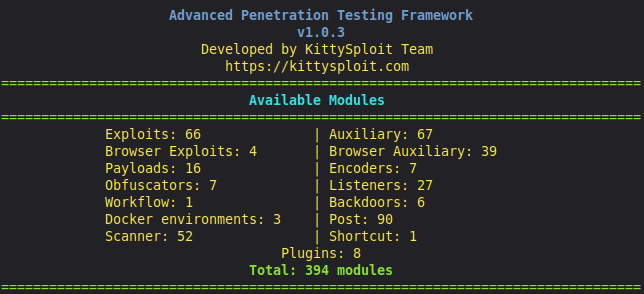
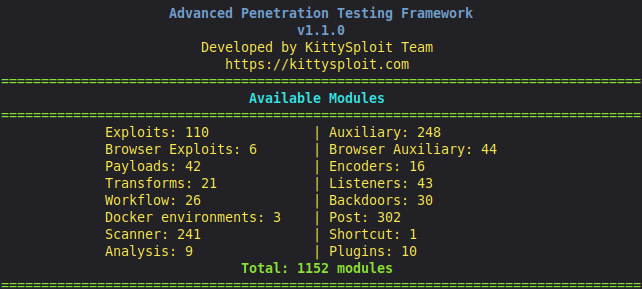
Update

Changed region(s): [[0.0, 0.0311, 1.0, 0.4048], [0.0, 0.436, 1.0, 0.9965], [0.1558, 0.436, 0.4361, 0.9031]]

diff --git a/env_setup.py b/env_setup.py
@@ -20,7 +20,8 @@ def setup_environment():
     
     # Set environment variables
     os.environ['KITTYSPLOIT_HOME'] = str(current_dir)
-    os.environ['KITTYSPLOIT_VERSION'] = '1.0.0'
+    from core.version import VERSION
+    os.environ['KITTYSPLOIT_VERSION'] = VERSION
     
     print(f"KittySploit home: {current_dir}")
     print("Environment setup complete!")

diff --git a/core/version.py b/core/version.py
@@ -5,4 +5,4 @@
 Version information for KittySploit Framework
 """
 
-VERSION = "1.0.8"
+VERSION = "1.1.0"

diff --git a/README.md b/README.md
@@ -38,6 +38,20 @@ While traditional tools struggle with modern web architectures and automated def
 
 ---
 
+## Vision: KittySploit 2.0
+
+KittySploit **1.x** lays the groundwork — modular architecture, rapid iteration, and a growing ecosystem. The long-term goal is **version 2.0**: not just another pentest framework, but a genuinely best-in-class offensive platform.
+
+**What 2.0 means for us:**
+
+| **Powerful** | **Stable** | **Complete** |
+| :--- | :--- | :--- |
+| Deep coverage across web, network, cloud, and OT — with AI-assisted planning, evasion-first payloads, and workflows that scale from recon to post-exploitation. | A battle-tested core, predictable APIs, and reliability you can trust on real engagements — not just demos. | One cohesive toolchain: agent, proxy, OSINT, payloads, collaboration, and marketplace — fully integrated, not bolted together. |
+
+We're building toward that north star release by release. Every module, every fix, and every contribution moves us closer to **2.0**.
+
+---
+
 ## Screenshots
 
 <div align="center">